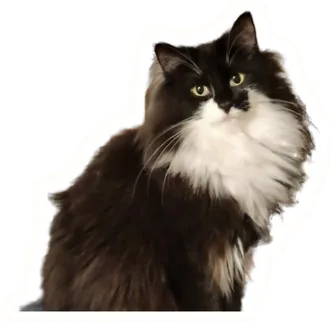
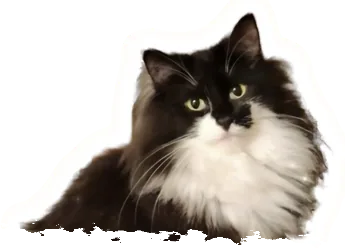
Give the voices cat a torn bottom edge instead of a flat crop
素材の下端が直線で切れていたため、ヒーロー左下の猫のように
破れた紙の縁で終わるよう修正。

- 画像のアルファに乱流で生成した破れ縁を乗算して焼き込み
  （CSS mask は file:// / 一部環境で読み込めず全面が消えるため不採用）
- セクション境界の破れ帯のすぐ上に来る位置へ再配置し、
  2本の破れ線が連続して見えるように
- 幅を 165 -> 195px に拡大（切り落とした分を補う）

Claude-Session: https://claude.ai/code/session_01HYwaAX6h8WA4TnELhcRBwh

diff --git a/index.html b/index.html
@@ -82,7 +82,7 @@ nav.main a:hover{color:var(--pistachio-d)}nav.main a:hover::after{width:100%}
 .scat img{width:100%;height:auto;display:block;filter:drop-shadow(4px 8px 8px rgba(82,70,54,.26))}
 .sc-about{width:150px;right:-2%;bottom:90px;--r:-5deg;--fl:10px;--dur:19s}
 .sc-kit{width:225px;left:-1%;top:140px;--r:5deg;--fl:14px;--dur:17s}
-.sc-voices{width:165px;right:-1%;bottom:100px;--r:-6deg;--fl:11px;--dur:20s}
+.sc-voices{width:195px;right:-1%;bottom:44px;--r:-6deg;--fl:11px;--dur:20s}
 .sc-ig{width:200px;left:-1%;bottom:80px;--r:4deg;--fl:13px;--dur:22s}
 .sc-blog{width:155px;right:0;bottom:95px;--r:6deg;--fl:9px;--dur:18s}
 .sc-contact{width:250px;left:0;bottom:105px;--r:-4deg;--fl:12px;--dur:16s}
@@ -297,7 +297,7 @@ footer .cp{font-family:var(--en);font-style:italic;font-size:11px;color:var(--in
   /* ヒーローの猫：四隅に縮小配置（ヘッダー・見出しを避ける） */
   .sc-about{width:106px;right:-4%}
   .sc-kit{width:158px;left:-4%;top:120px}
-  .sc-voices{width:116px;right:-4%}
+  .sc-voices{width:140px;right:-3%;bottom:54px}
   .sc-ig{width:140px;left:-4%}
   .sc-blog{width:108px;right:0}
   .sc-contact{width:175px;left:-3%;bottom:95px}
@@ -317,7 +317,7 @@ footer .cp{font-family:var(--en);font-style:italic;font-size:11px;color:var(--in
   .wrap{padding:0 22px}
   .sc-about{width:78px;right:-3%;bottom:26px}
   .sc-kit{width:116px;left:-3%;top:auto;bottom:40px}
-  .sc-voices{width:86px;right:-3%;bottom:26px}
+  .sc-voices{width:106px;right:-3%;bottom:64px}
   .sc-ig{width:104px;left:-3%;bottom:24px}
   .sc-blog{width:80px;right:0;bottom:28px}
   .sc-contact{width:128px;left:-3%;bottom:22px}
